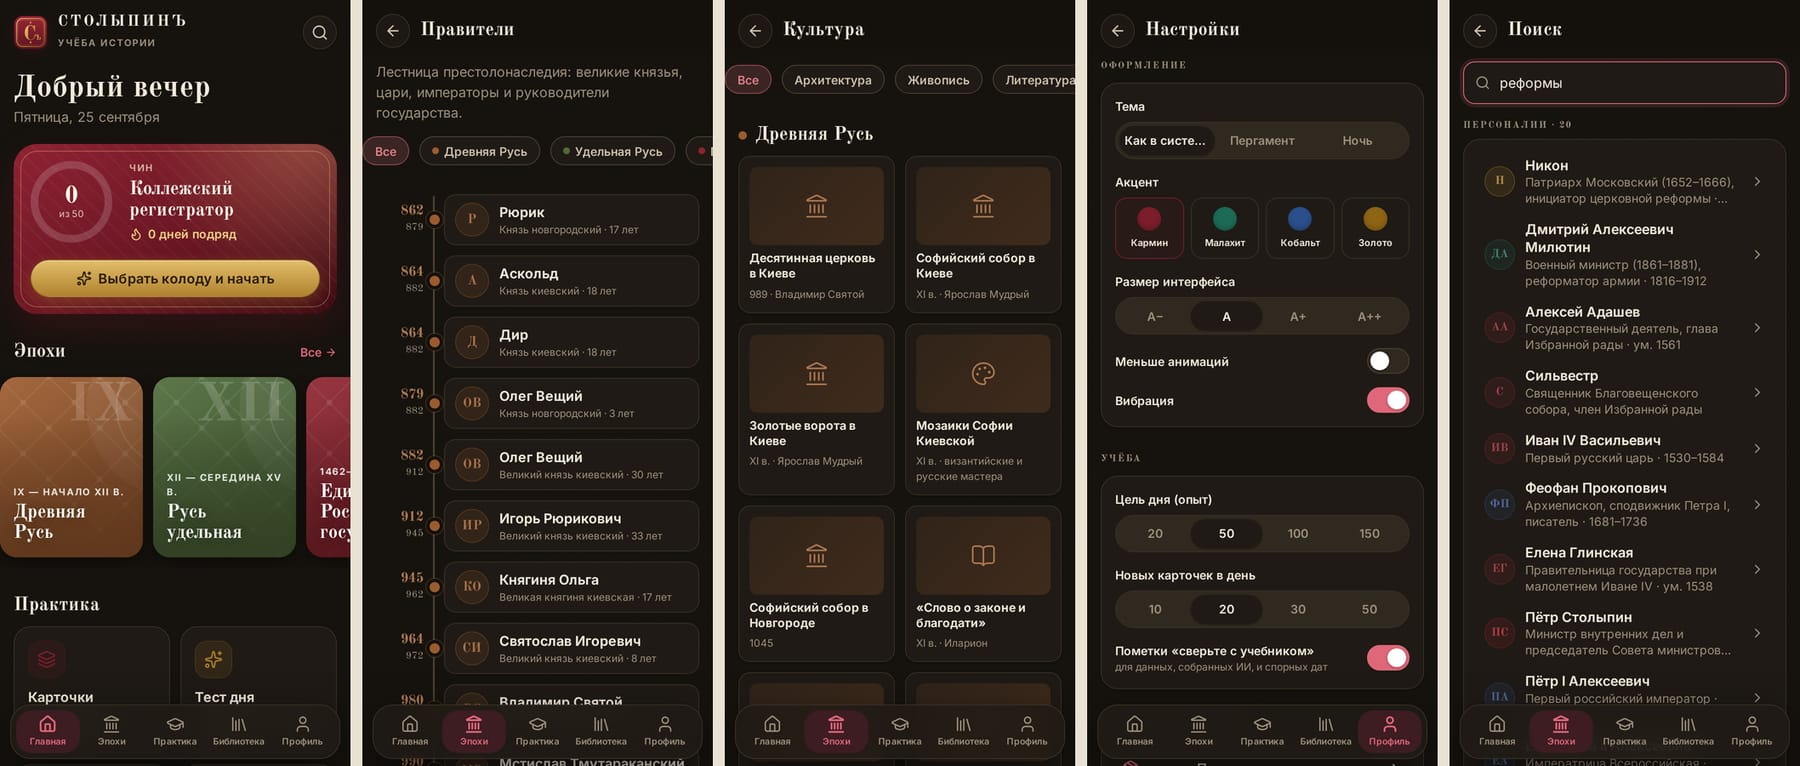
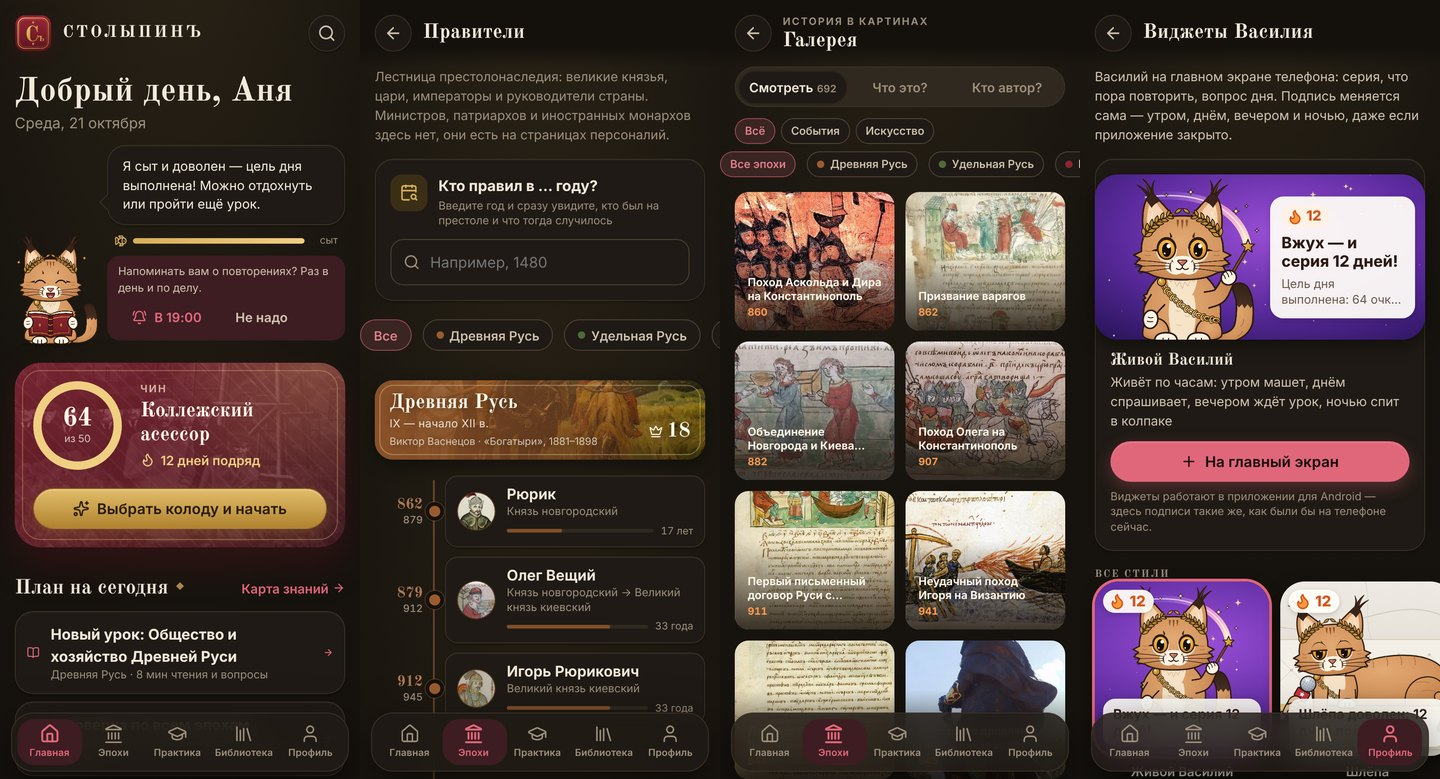
README: страница под нынешнее приложение, свежие скриншоты
- README переписан: курс, эпохи, тесты и пробники, эссе, игры, библиотека,
  Василий и его виджеты; без предупреждений и служебных пометок.
- Скриншоты пересняты с текущей версии (на старых были плашки ранних версий),
  добавлены «Василий» и «Практика», картинка «до и после» убрана.
- docs/agent-guide.md → docs/content-guide.md («Руководство по материалам»),
  ссылки обновлены.

Claude-Session: https://claude.ai/code/session_01UQ9ExXi1b9rgf3xg8uHfaj

diff --git a/scripts/content-add.ts b/scripts/content-add.ts
@@ -16,7 +16,7 @@
  *
  * The entry is appended to the period's fragment of the pack (e.g. content/packs/osnova/data/04-c17.json,
  * or data/<period>.json if the pack has none) with «TODO: …» placeholders. `pnpm content:check` reports every
- * TODO as an error, so a half-filled stub cannot reach the app. Guide: docs/agent-guide.md.
+ * TODO as an error, so a half-filled stub cannot reach the app. Guide: docs/content-guide.md.
  */
 import { existsSync, readFileSync, writeFileSync } from 'node:fs';
 import { basename, join, resolve } from 'node:path';
@@ -43,7 +43,7 @@ for (let i = 0; i < argv.length; i++) {
   } else positional.push(a);
 }
 const fail = (msg: string): never => {
-  console.error(`✖ ${msg}\n\nПримеры — в шапке scripts/content-add.ts и в docs/agent-guide.md.`);
+  console.error(`✖ ${msg}\n\nПримеры — в шапке scripts/content-add.ts и в docs/content-guide.md.`);
   process.exit(1);
 };
 const kindArg = positional[0];

diff --git a/src/core/content/validate.ts b/src/core/content/validate.ts
@@ -146,7 +146,7 @@ export function validateContent(periods: Period[], packs: PackInput[], opts: Val
     validated.push(pack);
   }
 
-  // Guards for hand-added materials (see docs/agent-guide.md):
+  // Guards for hand-added materials (see docs/content-guide.md):
   //  · «TODO» placeholders left by `pnpm content:add` are errors — a half-filled stub must not ship;
   //  · the same title/name under a different id is probably a duplicate;
   //  · Wikipedia links belong to the short `wiki` field, not to `refs`;

diff --git a/AGENTS.md b/AGENTS.md
@@ -3,7 +3,7 @@
 Офлайн-приложение для подготовки к олимпиадам по истории России: Svelte 5 + TypeScript + Vite,
 оборачивается в Android APK через Capacitor 8. Интерфейс и контент на русском.
 
-> **Начните с [`docs/agent-guide.md`](docs/agent-guide.md)** — введение в проект и пошаговое добавление
+> **Начните с [`docs/content-guide.md`](docs/content-guide.md)** — введение в проект и пошаговое добавление
 > материалов без ошибок. Этот файл — краткая шпаргалка: команды, правила, рецепты.
 > Большинство задач решается **данными** (`content/`), а не кодом.
 
@@ -55,7 +55,7 @@ Actions → Android APK → Run workflow.
 
 | Задача | Где и как |
 |--------|-----------|
-| Добавить события/персоналии/термины | `pnpm content:add …` → заполнить `TODO` → `pnpm content:check` (подробно — `docs/agent-guide.md`) |
+| Добавить события/персоналии/термины | `pnpm content:add …` → заполнить `TODO` → `pnpm content:check` (подробно — `docs/content-guide.md`) |
 | Добавить правителя | персоналия с `reigns`; для необычного титула укажите `kind` (`head`, `regent`…) → `pnpm content:rulers` |
 | Картинка к событию / портрет / произведение | `image` + `imageInfo` (автор, дата, описание, лицензия) — или `scripts/media/wiki_images.py`; попадёт в «Галерею», викторины и «Картину дня» |
 | Произведение искусства | запись в `culture` (`kind: painting/icon/sculpture…`, `year`, `authorName`, `features` для атрибуции, `wiki` — название статьи Википедии), пример: `data/12-zhivopis.json`, `data/13-muzyka-literatura-pamyatniki.json` |

diff --git a/docs/content-format.md b/docs/content-format.md
@@ -19,7 +19,7 @@ content/
 ## Как добавить материалы (для людей и агентов)
 
 > Быстрее и надёжнее — `pnpm content:add` (заготовка с id и периодом) и пошаговое руководство
-> [`docs/agent-guide.md`](agent-guide.md).
+> [`docs/content-guide.md`](content-guide.md).
 
 1. Решите, куда класть: дополнение к существующей теме — новый файл в существующем пакете;
    отдельный курс/книга/набор — новый пакет: `pnpm content:new <id> "Название"`.

diff --git a/docs/content-guide.md b/docs/content-guide.md
@@ -1,4 +1,4 @@
-# Руководство для агентов: введение в проект и добавление материалов
+# Руководство: введение в проект и добавление материалов
 
 > **Коротко.** Материалы — это данные, а не код. Чтобы добавить событие, человека, произведение или термин:
 > 1. `pnpm content:add <вид> "Название" --year 1698` — заготовка с правильным id и периодом;
